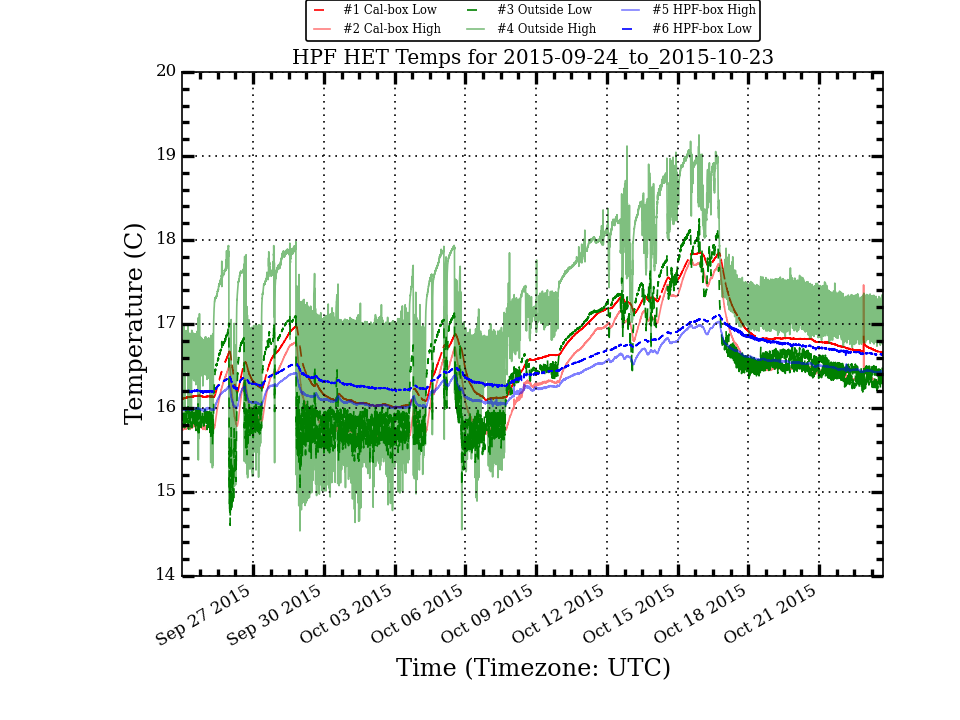
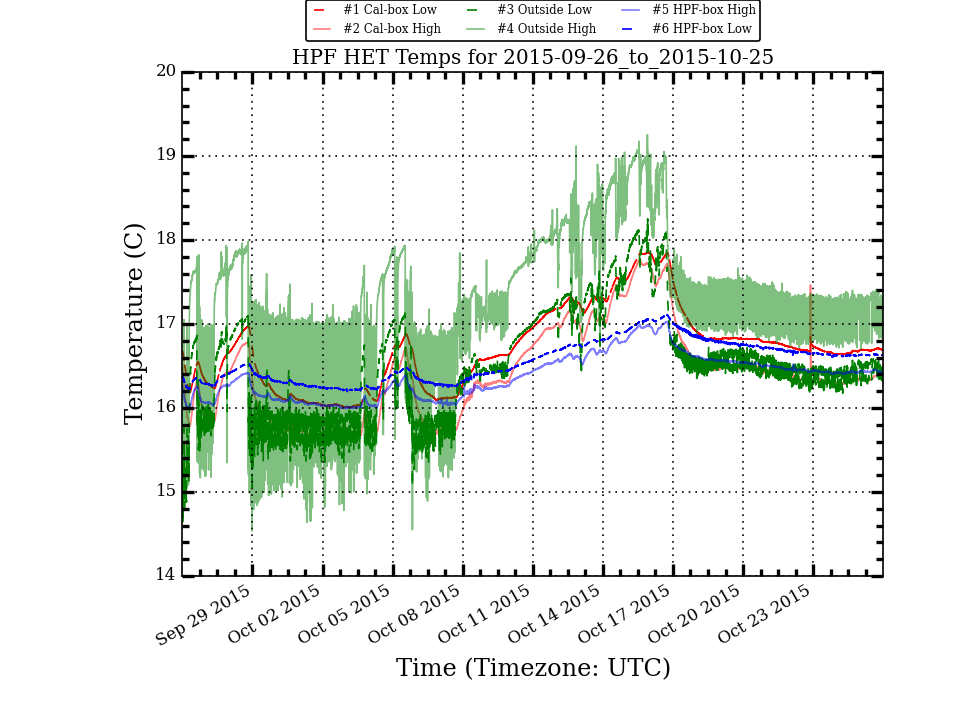
Update HPF Temp Plots

diff --git a/research/hpf_temps/plots/LakeShoreLogTotal_week_stats.html b/research/hpf_temps/plots/LakeShoreLogTotal_week_stats.html
@@ -10,56 +10,56 @@
  </TR>
  <TR>
   <TD>Cal_Low</TD>
-  <TD>16.833</TD>
-  <TD>0.156</TD>
-  <TD>16.821</TD>
-  <TD>17.525</TD>
-  <TD>16.664</TD>
-  <TD>0.861</TD>
+  <TD>16.735</TD>
+  <TD>0.065</TD>
+  <TD>16.711</TD>
+  <TD>16.873</TD>
+  <TD>16.637</TD>
+  <TD>0.236</TD>
  </TR>
  <TR>
   <TD>Cal_High</TD>
-  <TD>16.479</TD>
-  <TD>0.152</TD>
-  <TD>16.462</TD>
+  <TD>16.390</TD>
+  <TD>0.070</TD>
+  <TD>16.373</TD>
   <TD>17.465</TD>
-  <TD>16.302</TD>
-  <TD>1.163</TD>
+  <TD>16.279</TD>
+  <TD>1.186</TD>
  </TR>
  <TR>
   <TD>Out_Low</TD>
-  <TD>16.509</TD>
-  <TD>0.114</TD>
-  <TD>16.501</TD>
-  <TD>16.939</TD>
-  <TD>16.191</TD>
-  <TD>0.748</TD>
+  <TD>16.467</TD>
+  <TD>0.105</TD>
+  <TD>16.466</TD>
+  <TD>16.749</TD>
+  <TD>16.176</TD>
+  <TD>0.573</TD>
  </TR>
  <TR>
   <TD>Out_High</TD>
-  <TD>17.229</TD>
-  <TD>0.194</TD>
-  <TD>17.250</TD>
-  <TD>17.902</TD>
-  <TD>16.720</TD>
-  <TD>1.182</TD>
+  <TD>17.199</TD>
+  <TD>0.182</TD>
+  <TD>17.239</TD>
+  <TD>17.667</TD>
+  <TD>16.707</TD>
+  <TD>0.960</TD>
  </TR>
  <TR>
   <TD>HPF_High</TD>
-  <TD>16.534</TD>
-  <TD>0.081</TD>
-  <TD>16.530</TD>
-  <TD>16.774</TD>
-  <TD>16.421</TD>
-  <TD>0.353</TD>
+  <TD>16.472</TD>
+  <TD>0.048</TD>
+  <TD>16.454</TD>
+  <TD>16.575</TD>
+  <TD>16.403</TD>
+  <TD>0.172</TD>
  </TR>
  <TR>
   <TD>HPF_Low</TD>
-  <TD>16.754</TD>
-  <TD>0.092</TD>
-  <TD>16.740</TD>
-  <TD>17.016</TD>
-  <TD>16.628</TD>
-  <TD>0.388</TD>
+  <TD>16.680</TD>
+  <TD>0.053</TD>
+  <TD>16.665</TD>
+  <TD>16.798</TD>
+  <TD>16.606</TD>
+  <TD>0.192</TD>
  </TR>
 </TABLE>

diff --git a/research/hpf_temps/plots/LakeShoreLogTotal_month_stats.html b/research/hpf_temps/plots/LakeShoreLogTotal_month_stats.html
@@ -10,56 +10,56 @@
  </TR>
  <TR>
   <TD>Cal_Low</TD>
-  <TD>16.678</TD>
-  <TD>0.491</TD>
-  <TD>16.687</TD>
+  <TD>16.708</TD>
+  <TD>0.472</TD>
+  <TD>16.693</TD>
   <TD>17.851</TD>
   <TD>16.007</TD>
   <TD>1.844</TD>
  </TR>
  <TR>
   <TD>Cal_High</TD>
-  <TD>16.379</TD>
-  <TD>0.553</TD>
-  <TD>16.366</TD>
+  <TD>16.407</TD>
+  <TD>0.533</TD>
+  <TD>16.367</TD>
   <TD>17.779</TD>
   <TD>15.615</TD>
   <TD>2.164</TD>
  </TR>
  <TR>
   <TD>Out_Low</TD>
-  <TD>16.487</TD>
-  <TD>0.645</TD>
-  <TD>16.485</TD>
+  <TD>16.507</TD>
+  <TD>0.627</TD>
+  <TD>16.486</TD>
   <TD>18.252</TD>
   <TD>14.604</TD>
   <TD>3.648</TD>
  </TR>
  <TR>
   <TD>Out_High</TD>
-  <TD>17.235</TD>
-  <TD>0.786</TD>
-  <TD>17.248</TD>
+  <TD>17.256</TD>
+  <TD>0.766</TD>
+  <TD>17.261</TD>
   <TD>19.251</TD>
   <TD>14.537</TD>
   <TD>4.714</TD>
  </TR>
  <TR>
   <TD>HPF_High</TD>
-  <TD>16.351</TD>
-  <TD>0.277</TD>
-  <TD>16.307</TD>
+  <TD>16.377</TD>
+  <TD>0.263</TD>
+  <TD>16.413</TD>
   <TD>17.029</TD>
-  <TD>15.965</TD>
-  <TD>1.064</TD>
+  <TD>15.992</TD>
+  <TD>1.037</TD>
  </TR>
  <TR>
   <TD>HPF_Low</TD>
-  <TD>16.530</TD>
-  <TD>0.257</TD>
-  <TD>16.448</TD>
+  <TD>16.557</TD>
+  <TD>0.243</TD>
+  <TD>16.575</TD>
   <TD>17.107</TD>
-  <TD>16.173</TD>
-  <TD>0.934</TD>
+  <TD>16.195</TD>
+  <TD>0.912</TD>
  </TR>
 </TABLE>
